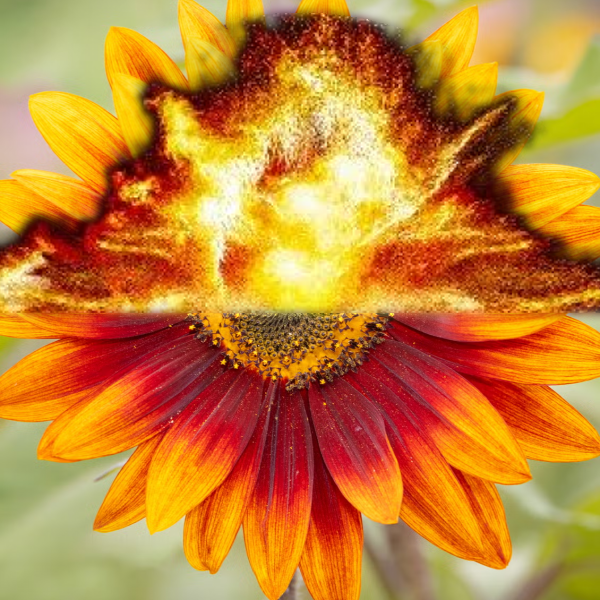
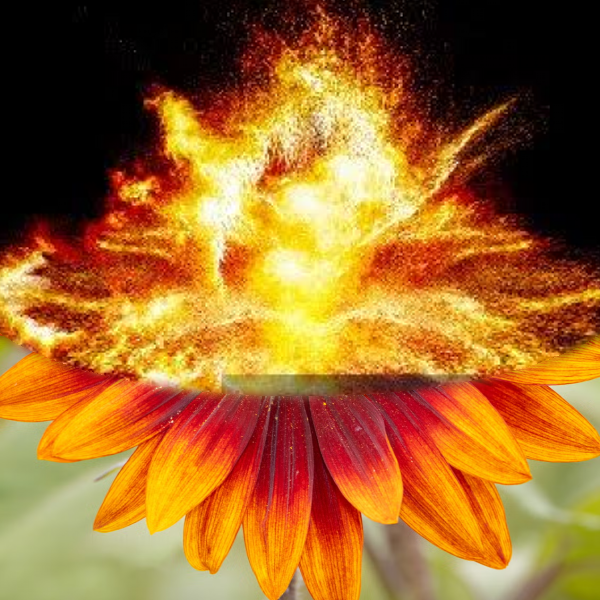
Polish Part 2 and refine explosion blend

diff --git a/projects/project2/index.html b/projects/project2/index.html
@@ -85,6 +85,74 @@
         line-height: 1;
       }
 
+      #part-2 .part-two-block {
+        background: linear-gradient(145deg, rgba(255, 255, 255, 0.035), rgba(255, 255, 255, 0.012));
+        border: 1px solid var(--border);
+        border-radius: 18px;
+        box-shadow: 0 18px 45px rgba(0, 0, 0, 0.12);
+        margin-top: 2.5rem;
+        padding: clamp(1.25rem, 3vw, 2.25rem);
+      }
+
+      #part-2 .part-two-block > h3 {
+        border-bottom: 1px solid var(--border);
+        margin-top: 0;
+        padding-bottom: 0.8rem;
+      }
+
+      #part-2 .part-two-block > h4 {
+        margin-top: 2.25rem;
+      }
+
+      #part-2 .analysis-grid,
+      #part-2 .blend-grid {
+        max-width: none;
+        width: 100%;
+      }
+
+      #part-2 .analysis-grid {
+        grid-template-columns: 1fr;
+      }
+
+      #part-2 .analysis-grid img {
+        height: auto;
+        max-height: none;
+      }
+
+      #part-2 .blend-example {
+        background: rgba(0, 0, 0, 0.1);
+        border: 1px solid var(--border);
+        border-radius: 14px;
+        margin-top: 1.5rem;
+        padding: clamp(1rem, 2.5vw, 1.6rem);
+      }
+
+      #part-2 .blend-example > h4 {
+        margin-top: 0;
+      }
+
+      #part-2 .blend-grid {
+        grid-template-columns: repeat(2, minmax(0, 1fr));
+        margin-top: 1.25rem;
+      }
+
+      #part-2 .blend-grid img {
+        height: 320px;
+      }
+
+      #part-2 .blend-grid .blend-process,
+      #part-2 .blend-grid .blend-final {
+        grid-column: 1 / -1;
+      }
+
+      #part-2 .blend-grid .blend-process img {
+        height: min(72vh, 720px);
+      }
+
+      #part-2 .blend-grid .blend-final img {
+        height: min(68vh, 620px);
+      }
+
       @media (max-width: 700px) {
         #part-2 .final-hybrid-figure img {
           height: 360px;
@@ -98,6 +166,22 @@
 
         #part-2 .hybrid-pyramid-originals figure {
           width: calc(50% - 0.45rem);
+        }
+
+        #part-2 .blend-grid {
+          grid-template-columns: 1fr;
+        }
+
+        #part-2 .blend-grid .blend-process,
+        #part-2 .blend-grid .blend-final {
+          grid-column: auto;
+        }
+
+        #part-2 .blend-grid img,
+        #part-2 .blend-grid .blend-process img,
+        #part-2 .blend-grid .blend-final img {
+          height: auto;
+          max-height: 520px;
         }
       }
     </style>
@@ -266,6 +350,7 @@ dog_dy = convolve_two_for_loops(camera_image, DoG_y)</code></pre>
         <div class="section-heading">
           <h2 id="part-2-title">Part 2</h2>
         </div>
+        <article class="part-two-block" id="part-2-1">
         <h3>Part 2.1: Image “Sharpening”</h3>
         <div class="writeup-copy">
           <p>An unsharp mask sharpens an image by emphasizing the high-frequency details that are reduced by blur. I first convolve the grayscale image with a 9 × 9 Gaussian filter to create a blurred, low-frequency version. Subtracting this blurred image from the original isolates the high-frequency residual, which contains edges and fine texture. Adding a scaled version of that residual back to the original produces the sharpened image.</p>
@@ -292,6 +377,8 @@ sharpened = np.clip(image + alpha * high_frequency, 0, 255)</code></pre>
           <figure><img src="climber_sharpened_2.png" alt="Climber image sharpened with alpha 2"><figcaption>Sharpened, α = 2</figcaption></figure>
           <figure><img src="climber_sharpened_4.png" alt="Climber image sharpened with alpha 4"><figcaption>Sharpened, α = 4</figcaption></figure>
         </div>
+        </article>
+        <article class="part-two-block" id="part-2-2">
         <h3>Part 2.2: Hybrid Images</h3>
         <div class="writeup-copy">
           <p>A hybrid image combines the low frequencies of one aligned image with the high frequencies of another. I create the low-frequency component by Gaussian-blurring the second image. For the high-frequency component, I subtract a Gaussian-blurred version of the first image from the original. Adding the two filtered components produces an image that changes appearance with viewing distance: nearby, the high-frequency image is more visible; farther away, the low-frequency image dominates.</p>
@@ -380,6 +467,8 @@ hybrid = np.clip(low_frequency + high_frequency, 0, 1)</code></pre>
           <figure><img src="lion_low_fourier.png" alt="Log magnitude Fourier transform of the lion low-pass image"><figcaption>Lion low-pass frequencies</figcaption></figure>
           <figure><img src="messi_lion_hybrid_fourier.png" alt="Log magnitude Fourier transform of the Messi and lion hybrid"><figcaption>Hybrid frequencies</figcaption></figure>
         </div>
+        </article>
+        <article class="part-two-block" id="part-2-3">
         <h3>Part 2.3: Gaussian and Laplacian Stacks</h3>
         <div class="writeup-copy">
           <p>A stack keeps every level at the original image dimensions. I built the Gaussian stack by repeatedly applying a 9 × 9 Gaussian filter with <code>sigma = 8</code> without downsampling. Each Laplacian level is the difference between two neighboring Gaussian levels, with the final Gaussian level stored as the low-frequency residual.</p>
@@ -389,58 +478,53 @@ laplacian_levels = laplacian_stack(gaussian_levels)
 # No pyrDown or pyramid_gaussian is used:
 next_level = blur_image(previous_level)</code></pre>
         </div>
-        <div class="source-plate-grid">
+        <div class="source-plate-grid analysis-grid">
           <figure><img src="gaussian_stacks.png" alt="Gaussian stacks for the orange and apple images"><figcaption>Gaussian stacks: all levels have the original dimensions</figcaption></figure>
           <figure><img src="laplacian_stacks.png" alt="Laplacian stacks for the orange and apple images"><figcaption>Laplacian stacks: detail levels and low-frequency residual</figcaption></figure>
         </div>
         <div class="writeup-copy">
           <p>For the Oraple, I used a left-half mask for the apple and a right-half mask for the orange. I blurred the mask at every stack level, combined the corresponding Laplacian levels, and summed the combined stack to reconstruct the final image. Blending at multiple frequencies avoids the hard seam produced by directly joining the two originals.</p>
         </div>
-        <div class="source-plate-grid">
-          <figure><img src="oraple_laplacian_blend.png" alt="Laplacian-stack contributions and combined levels used to create the Oraple"><figcaption>Oraple blend at each Laplacian level</figcaption></figure>
-          <figure><img src="oraple.png" alt="Final reconstructed Oraple made from an orange and an apple"><figcaption>Final reconstructed Oraple</figcaption></figure>
+        <div class="source-plate-grid blend-grid">
+          <figure class="blend-process"><img src="oraple_laplacian_blend.png" alt="Laplacian-stack contributions and combined levels used to create the Oraple"><figcaption>Oraple blend at each Laplacian level</figcaption></figure>
+          <figure class="blend-final"><img src="oraple.png" alt="Final reconstructed Oraple made from an orange and an apple"><figcaption>Final reconstructed Oraple</figcaption></figure>
         </div>
-        <div class="project-grid">
-          <article class="project-card">
-            <div class="project-card-body">
-              <h3>Part 2.4: Multiresolution Blending</h3>
-              <p>I started with a vertical-seam blend of a lion and a tiger. Both images are center-cropped to a shared square canvas, then a left-half step mask selects the lion and the right half selects the tiger. The mask is blurred at every Gaussian-stack level so the final seam changes gradually instead of creating a hard edge.</p>
-              <pre><code>mask = vertical_mask(lion.shape)
+        </article>
+
+        <article class="part-two-block" id="part-2-4">
+          <h3>Part 2.4: Multiresolution Blending</h3>
+          <div class="writeup-copy">
+            <p>I combine corresponding Laplacian levels from two images using a Gaussian stack of the mask. The progressively blurred masks distribute the seam across spatial frequencies, producing a smoother transition than direct pixel splicing.</p>
+          </div>
+
+          <section class="blend-example">
+            <h4>Lion + Tiger: vertical seam</h4>
+            <p>Both images are center-cropped to a shared square canvas. A left-half step mask selects the lion and the right half selects the tiger.</p>
+            <pre><code>mask = vertical_mask(lion.shape)
 mask_stack = gaussian_stack(mask, 4)
-blended_level = (
-    mask_level * lion_laplacian_level
-    + (1 - mask_level) * tiger_laplacian_level
-)
-blend = sum(blended_laplacian)</code></pre>
+blend = multiresolution_blend(lion, tiger, mask)</code></pre>
+            <div class="source-plate-grid blend-grid">
+              <figure><img src="lion_tiger_prepared_inputs.png" alt="Prepared square lion and tiger inputs for vertical seam blending"><figcaption>Prepared inputs</figcaption></figure>
+              <figure><img src="lion_tiger_vertical_mask.png" alt="Vertical half-image mask for the lion and tiger blend"><figcaption>Vertical seam mask</figcaption></figure>
+              <figure class="blend-process"><img src="lion_tiger_laplacian_blend.png" alt="Laplacian stack contributions and combined levels for the lion and tiger blend"><figcaption>Laplacian-stack process</figcaption></figure>
+              <figure class="blend-final"><img src="lion_tiger_blend.png" alt="Final multiresolution blend of a lion and tiger"><figcaption>Final lion/tiger blend</figcaption></figure>
             </div>
-          </article>
-        </div>
-        <div class="source-plate-grid">
-          <figure><img src="lion_tiger_prepared_inputs.png" alt="Prepared square lion and tiger inputs for vertical seam blending"><figcaption>Prepared lion and tiger inputs</figcaption></figure>
-          <figure><img src="lion_tiger_vertical_mask.png" alt="Vertical half-image mask for the lion and tiger blend"><figcaption>Vertical seam mask</figcaption></figure>
-          <figure><img src="lion_tiger_laplacian_blend.png" alt="Laplacian stack contributions and combined levels for the lion and tiger blend"><figcaption>Laplacian-stack blending process</figcaption></figure>
-          <figure><img src="lion_tiger_blend.png" alt="Final multiresolution blend of a lion and tiger"><figcaption>Final lion/tiger blend</figcaption></figure>
-        </div>
-        <div class="project-grid">
-          <article class="project-card">
-            <div class="project-card-body">
-              <h3>Semicircle blend: explosion and sunflower</h3>
-              <p>I used the standalone explosion and sunflower as the two baseline images. I enlarged the explosion and selected it with a broad upper semicircle approximately the size of the flower’s top half. The sunflower remains visible outside the semicircle and throughout the lower half.</p>
-              <pre><code>explosion = scale_center_crop(explosion, 1.35)
+          </section>
+
+          <section class="blend-example">
+            <h4>Explosion + Sunflower: curved seam</h4>
+            <p>The enlarged explosion fully covers the upper half, so no sunflower petals show through there. A wide lower semicircle extends the explosion into the center while preserving the sunflower around the lower curved boundary.</p>
+            <pre><code>explosion = scale_center_crop(explosion, 1.35)
 mask = upper_semicircle_mask(sunflower.shape)
-mask_stack = gaussian_stack(mask, 4)
-blend = multiresolution_blend(
-    explosion, sunflower, mask
-)</code></pre>
+blend = multiresolution_blend(explosion, sunflower, mask)</code></pre>
+            <div class="source-plate-grid blend-grid">
+              <figure><img src="sunflower_explosion_prepared_inputs.png" alt="Prepared sunflower and explosion inputs"><figcaption>Prepared inputs</figcaption></figure>
+              <figure><img src="sunflower_explosion_semicircle_mask.png" alt="Mask covering the full upper half with a curved lower semicircle"><figcaption>Upper-half semicircle mask</figcaption></figure>
+              <figure class="blend-process"><img src="sunflower_explosion_laplacian_blend.png" alt="Laplacian stack contributions and combined levels for the sunflower and explosion blend"><figcaption>Laplacian-stack process</figcaption></figure>
+              <figure class="blend-final"><img src="sunflower_explosion_blend.png" alt="Final blend with an opaque explosion across the top half and sunflower below"><figcaption>Explosion above, sunflower below</figcaption></figure>
             </div>
-          </article>
-        </div>
-        <div class="source-plate-grid">
-          <figure><img src="sunflower_explosion_prepared_inputs.png" alt="Prepared sunflower and explosion inputs"><figcaption>Prepared sunflower and explosion inputs</figcaption></figure>
-          <figure><img src="sunflower_explosion_semicircle_mask.png" alt="Large upper semicircle mask approximately matching the top half of the sunflower"><figcaption>Large upper semicircle mask</figcaption></figure>
-          <figure><img src="sunflower_explosion_laplacian_blend.png" alt="Laplacian stack contributions and combined levels for the sunflower and explosion blend"><figcaption>Laplacian-stack blending process</figcaption></figure>
-          <figure><img src="sunflower_explosion_blend.png" alt="Final blend with an enlarged explosion in the flower's upper semicircle"><figcaption>Explosion in the upper flower semicircle</figcaption></figure>
-        </div>
+          </section>
+        </article>
       </section>
     </main>
 

diff --git a/projects/project2/blend.py b/projects/project2/blend.py
@@ -46,12 +46,14 @@ def upper_semicircle_mask(shape):
     height, width = shape[:2]
     y, x = np.mgrid[:height, :width]
     cx = width / 2
-    cy = height * 0.52
-    rx = width * 0.52
-    ry = height * 0.50
-    semicircle = ((x - cx) / rx) ** 2 + ((y - cy) / ry) ** 2 <= 1
-    semicircle &= y <= cy
-    return np.repeat(semicircle[:, :, None].astype(float), 3, axis=2)
+    cy = height * 0.48
+    rx = width * 0.55
+    ry = height * 0.18
+    top_half = y <= cy
+    lower_semicircle = ((x - cx) / rx) ** 2 + ((y - cy) / ry) ** 2 <= 1
+    lower_semicircle &= y > cy
+    mask = top_half | lower_semicircle
+    return np.repeat(mask[:, :, None].astype(float), 3, axis=2)
 
 
 def scale_center_crop(image, scale):
@@ -64,13 +66,6 @@ def scale_center_crop(image, scale):
     top = (resized.shape[0] - height) // 2
     left = (resized.shape[1] - width) // 2
     return resized[top:top + height, left:left + width]
-
-
-def remove_dark_background(foreground, background):
-    brightness = np.max(foreground, axis=2)
-    alpha = np.clip((brightness - 0.015) / 0.16, 0, 1)
-    alpha = cv2.GaussianBlur(alpha, (0, 0), 3)[:, :, None]
-    return alpha * foreground + (1 - alpha) * background
 
 
 def multiresolution_blend(left_image, right_image, mask):
@@ -188,7 +183,6 @@ plt.imsave(PROJECT_DIR / "lion_tiger_blend.png", lion_tiger)
 sunflower = prepare_image("sunflower.png")
 explosion = prepare_image("explosion.png")
 explosion_for_blend = scale_center_crop(explosion, 1.35)
-explosion_for_blend = remove_dark_background(explosion_for_blend, sunflower)
 sunflower_mask = upper_semicircle_mask(sunflower.shape)
 sunflower_mask_stack = gaussian_stack(sunflower_mask, STACK_LEVELS)
 explosion_laplacian = laplacian_stack(gaussian_stack(explosion_for_blend, STACK_LEVELS))
